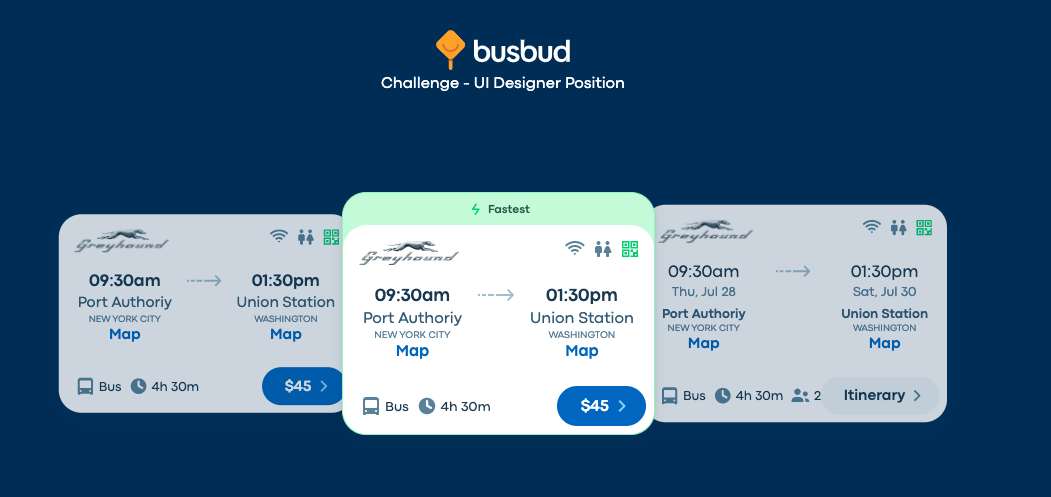
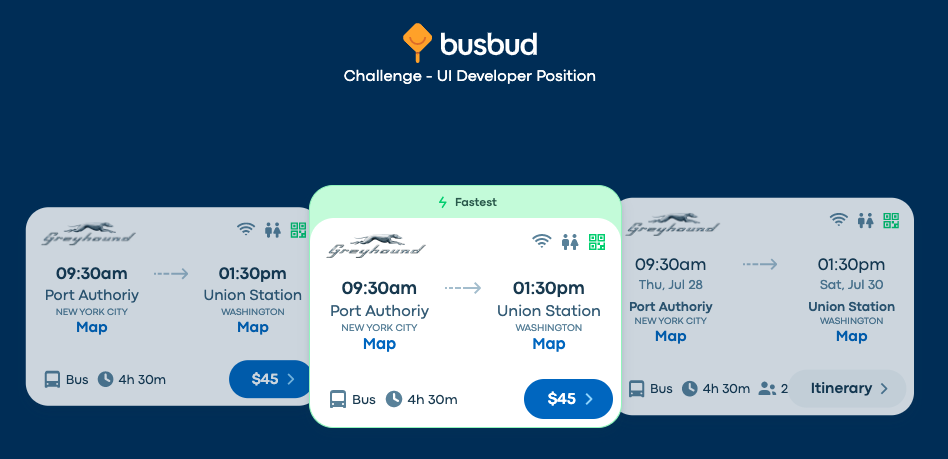
typo UI developer

Changed region(s): [[0.0, 0.366, 0.9789, 0.9455], [0.3671, 0.0305, 0.6424, 0.183], [0.4589, 0.5795, 0.4895, 0.61]]

diff --git a/pages/index.tsx b/pages/index.tsx
@@ -131,7 +131,7 @@ export default function Home() {
               ></path>
             </svg>
           </div>
-          <div>Challenge - UI Designer Position</div>
+          <div>Challenge - UI Developer Position</div>
           <div className={classes.cards}>
             <div className={classes.card}>
               <Card data={data} />

diff --git a/README.md b/README.md
@@ -9,7 +9,7 @@
 <br />
 <div align="center">
 
-  <h3 align="center">BusBud - Challenge UI Designer</h3>
+  <h3 align="center">BusBud - Challenge UI Developer</h3>
 </div>
 
 <!-- ABOUT THE PROJECT -->
